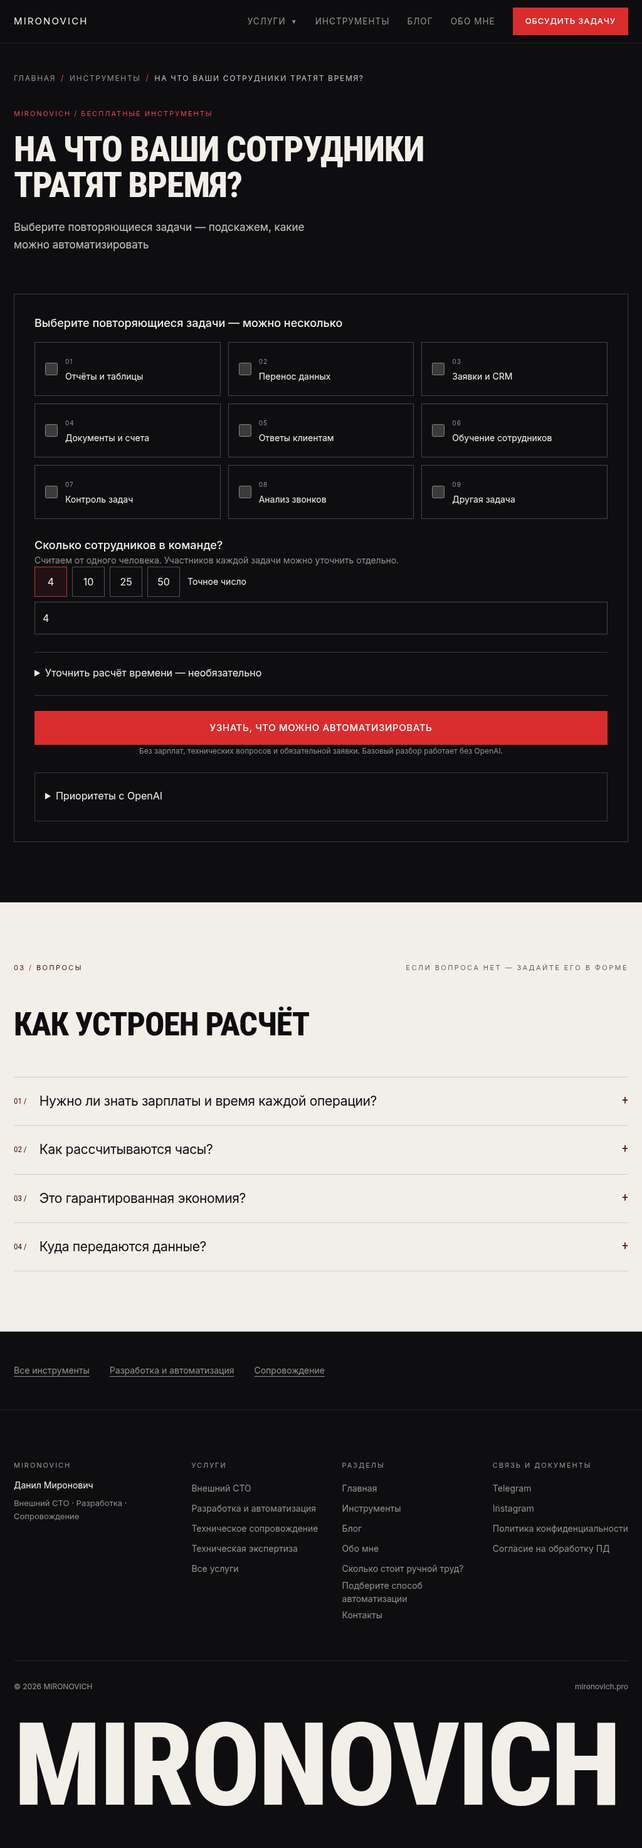
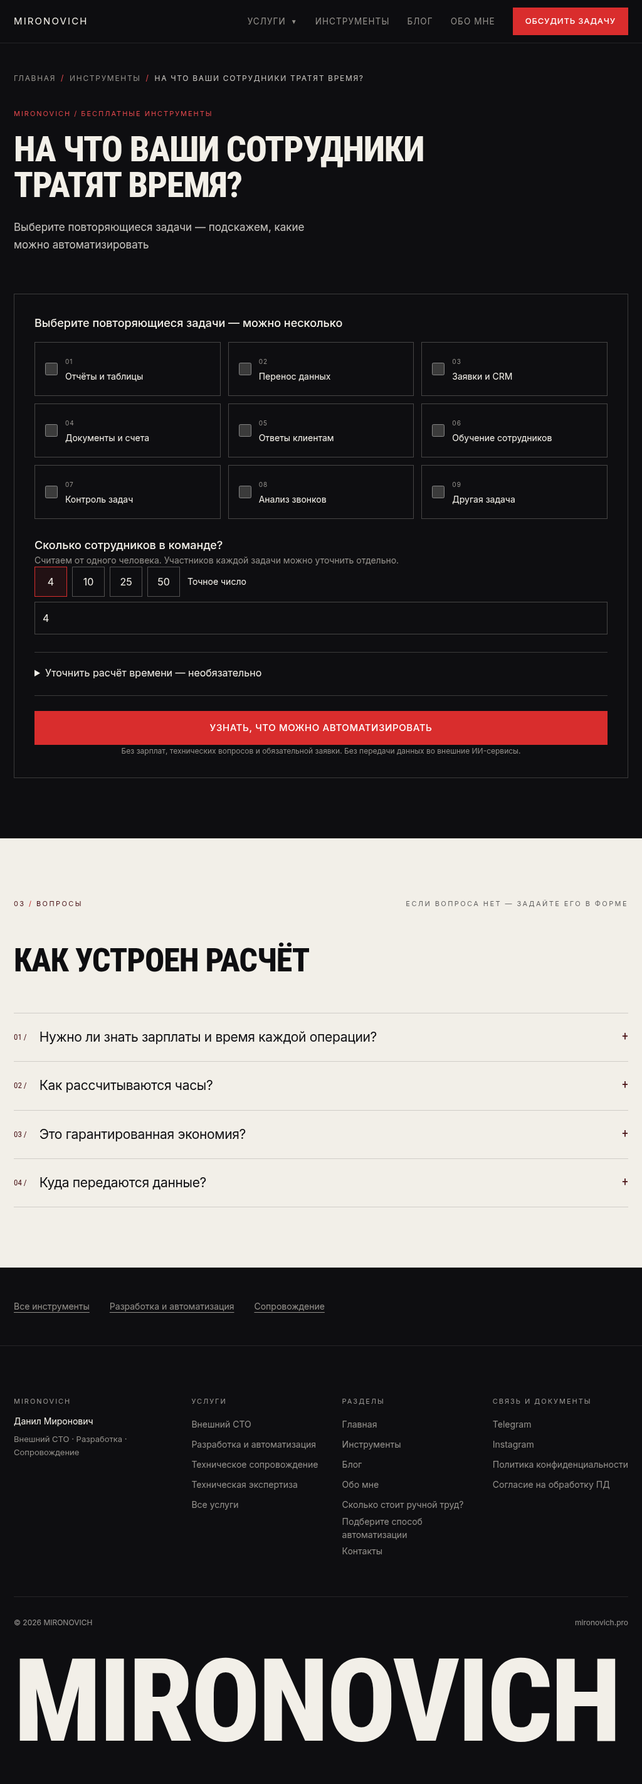
Hide unavailable OpenAI controls using request-time server policy

diff --git a/components/tools/GuidedCalculator.tsx b/components/tools/GuidedCalculator.tsx
@@ -13,7 +13,7 @@ type MeasureDraft={employees:string;frequency:Measurement["frequency"];repetitio
 const emptyMeasure=(employees:string):MeasureDraft=>({employees,frequency:"month",repetitions:"",minutes:"",periodsPerMonth:"1",hourlyCost:"",independent:false});
 const fromInput=(i:GuidedInput)=>Object.fromEntries(Object.entries(i.measurements).map(([k,m])=>[k,{...m,employees:String(m.employees),repetitions:String(m.repetitions),minutes:String(m.minutes),periodsPerMonth:String(m.periodsPerMonth),hourlyCost:m.hourlyCost===null?"":String(m.hourlyCost)}])) as Partial<Record<Task,MeasureDraft>>;
 
-export default function GuidedCalculator({mode}:{mode:"labor-cost"|"automation-cost"}) {
+export default function GuidedCalculator({mode,openAiAvailable=false}:{mode:"labor-cost"|"automation-cost";openAiAvailable?:boolean}) {
  const [tasks,setTasks]=useState<Task[]>([]),[employees,setEmployees]=useState(String(DEFAULT_EMPLOYEES));
  const [selectedSystems,setSystems]=useState<GuidedInput["systems"]>([]),[impact,setImpact]=useState<GuidedInput["impact"]>("unknown");
  const [description,setDescription]=useState("");
@@ -38,6 +38,7 @@ export default function GuidedCalculator({mode}:{mode:"labor-cost"|"automation-c
  }
  function show(input:GuidedInput){setError("");setResult(input);setCards(recommendationCards(input));setAiStatus("");requestAnimationFrame(()=>{heading.current?.focus();heading.current?.scrollIntoView({block:"start"});});}
  async function askAI(){
+  if(!openAiAvailable)return;
   if(!notice){setError("Прочитайте уведомление и подтвердите передачу выбранных обезличенных параметров.");return;}
   const input=result??build();if(!input)return;if(!result)show(input);
   setBusy(true);setAiStatus("OpenAI уточняет порядок задач и подходы. Базовая рекомендация остаётся доступной.");
@@ -50,19 +51,19 @@ export default function GuidedCalculator({mode}:{mode:"labor-cost"|"automation-c
   }catch{setAiStatus("ИИ-разбор недоступен или истекло время ожидания. Базовый результат сохранён.");}
   finally{clearTimeout(timer);setBusy(false);}
  }
- const aiBlock=<details className="mt-6 border border-cream/20 p-4"><summary className="min-h-[44px] cursor-pointer py-2 text-cream">Приоритеты с OpenAI</summary>
+ const aiBlock=openAiAvailable?<details className="mt-6 border border-cream/20 p-4"><summary className="min-h-[44px] cursor-pointer py-2 text-cream">Приоритеты с OpenAI</summary>
   <p className="text-sm leading-relaxed">OpenAI расставляет приоритеты выбранных задач и выбирает подход из каталога. Модель пока не анализирует произвольное описание бизнеса — это не индивидуальная ИИ-диагностика.</p>
   <p id="ai-notice" className="text-sm leading-relaxed text-stone">По вашему действию сайт отправит в OpenAI только категории задач, число сотрудников, выбранные типы программ и последствия ошибки. Описание, контакты, документы, пароли и расчёт стоимости не передаются. Не вводите чувствительные сведения. Можно пользоваться базовым результатом без OpenAI. <Link href="/privacy" className="underline">Политика обработки данных</Link>.</p>
   <label className="my-4 flex min-h-[48px] items-start gap-3 text-sm"><input type="checkbox" className="mt-1 h-5 w-5 shrink-0 accent-[#D92D2D]" checked={notice} onChange={e=>setNotice(e.target.checked)} aria-describedby="ai-notice"/><span>Я прочитал уведомление и хочу отправить выбранные обезличенные параметры в OpenAI</span></label>
   <button type="button" disabled={!notice||busy} className="min-h-[48px] border border-cream/40 px-5 py-3 disabled:opacity-50" onClick={askAI}>{busy?"Уточняем приоритеты…":"Уточнить приоритеты с OpenAI"}</button>
   <p role="status" className="text-sm text-stone">{aiStatus||"Базовая рекомендация доступна без OpenAI. Если модель недоступна, она сохранится."}</p>
- </details>;
+ </details>:null;
  const summary=result?calculateGuided(result):null;
  if(result&&summary)return <section aria-label="Результат разбора процессов" className="mx-auto max-w-[980px] text-cream">
   <div className="border border-cream/20 p-5 min-[560px]:p-8"><p className="text-xs uppercase tracking-widest text-stone">По выбранным задачам · без заявки</p>
    <h2 ref={heading} tabIndex={-1} className="tool-result-heading scroll-mt-24 break-normal font-display text-[clamp(28px,4vw,40px)] font-extrabold uppercase leading-tight">С чего начать</h2>
    <p className="text-sm leading-relaxed text-stone">Выберите один процесс для небольшого пилота. Команда: {result.employees}.</p>
-   {description&&<details className="mt-4 text-sm"><summary className="min-h-[44px] cursor-pointer py-2">Ваше описание — без ИИ-анализа</summary><p className="break-words text-stone">{description}</p><p className="text-stone">Описание остаётся на странице для уточнения задачи. OpenAI его не получает и не анализирует.</p></details>}
+   {description&&<details className="mt-4 text-sm"><summary className="min-h-[44px] cursor-pointer py-2">{openAiAvailable?"Ваше описание — без ИИ-анализа":"Ваше описание"}</summary><p className="break-words text-stone">{description}</p><p className="text-stone">Описание остаётся на странице для уточнения задачи.{openAiAvailable&&" OpenAI его не получает и не анализирует."}</p></details>}
    <GuidedResultCards cards={cards} />
    <details className="mt-5 border-b border-cream/20"><summary className="min-h-[56px] cursor-pointer py-4 text-base font-medium">Как выбрать подход и провести пилот</summary>
     <ul className="list-disc space-y-3 pl-5 text-sm leading-relaxed text-stone">{[...new Map(cards.map(card=>[card.type,card.reason])).entries()].map(([type,reason])=><li key={type}><span className="text-cream">{type}.</span> {reason}</li>)}</ul>
@@ -86,7 +87,7 @@ export default function GuidedCalculator({mode}:{mode:"labor-cost"|"automation-c
    <fieldset><legend className="mb-4 text-lg font-medium">Выберите повторяющиеся задачи — можно несколько</legend>
     <div className="grid gap-3 sm:grid-cols-2 lg:grid-cols-3">{Object.entries(taskLabels).map(([key,label],index)=><label key={key} className={"flex min-h-[86px] cursor-pointer items-center gap-3 border p-4 text-sm has-[:focus-visible]:outline has-[:focus-visible]:outline-2 has-[:focus-visible]:outline-signal "+(tasks.includes(key as Task)?"border-signal bg-signal/10":"border-cream/25")}><input type="checkbox" name="tasks" value={key} className="h-5 w-5 shrink-0 accent-[#D92D2D]" checked={tasks.includes(key as Task)} onChange={()=>toggle(key as Task)}/><span><span className="mb-1 block text-[10px] tracking-widest text-stone">{String(index+1).padStart(2,"0")}</span>{label}</span></label>)}</div>
    </fieldset>
-   {(tasks.includes("other")||mode==="automation-cost")&&<div className="mt-5"><label htmlFor="guided-description" className="mb-2 block text-sm">Опишите задачу своими словами — необязательно</label><textarea id="guided-description" value={description} maxLength={400} className={controlClass+" min-h-[100px] py-3"} onChange={e=>{setDescription(e.target.value);if(e.target.value.trim()&&!tasks.length)setTasks(["other"]);}} aria-describedby="description-note"/><p id="description-note" className="text-xs text-stone">Без контактов, паролей и данных клиентов. Описание остаётся в памяти страницы до вашего согласия на отправку заявки. OpenAI его пока не анализирует: текущие рекомендации основаны на выбранных категориях.</p></div>}
+   {(tasks.includes("other")||mode==="automation-cost")&&<div className="mt-5"><label htmlFor="guided-description" className="mb-2 block text-sm">Опишите задачу своими словами — необязательно</label><textarea id="guided-description" value={description} maxLength={400} className={controlClass+" min-h-[100px] py-3"} onChange={e=>{setDescription(e.target.value);if(e.target.value.trim()&&!tasks.length)setTasks(["other"]);}} aria-describedby="description-note"/><p id="description-note" className="text-xs text-stone">Без контактов, паролей и данных клиентов. Описание остаётся в памяти страницы до вашего согласия на отправку заявки. {openAiAvailable?"OpenAI его пока не анализирует: текущие рекомендации основаны на выбранных категориях.":"Рекомендации основаны на выбранных категориях."}</p></div>}
    <fieldset className="mt-7"><legend className="text-lg font-medium">Сколько сотрудников в команде?</legend><p className="text-sm text-stone">Считаем от одного человека. Участников каждой задачи можно уточнить отдельно.</p><div className="flex flex-wrap items-center gap-2">{EMPLOYEE_PRESETS.map(n=><button type="button" key={n} aria-pressed={employees===String(n)} onClick={()=>setEmployees(String(n))} className={"min-h-[48px] min-w-[52px] border px-3 "+(employees===String(n)?"border-signal bg-signal/10":"border-cream/30")}>{n}</button>)}<label className="ml-1 text-sm" htmlFor="guided-employees">Точное число</label><input id="guided-employees" inputMode="numeric" value={employees} maxLength={5} onChange={e=>setEmployees(e.target.value)} className={controlClass+" w-[95px]"}/></div></fieldset>
    {mode==="automation-cost"&&<details className="mt-6 border-t border-cream/20 pt-4"><summary className="min-h-[44px] cursor-pointer py-2">Два уточнения — если знаете ответы</summary><fieldset><legend className="mb-3">Какие программы используете?</legend><div className="grid gap-2 sm:grid-cols-2">{Object.entries(systems).map(([key,label])=><label key={key} className="flex min-h-[48px] items-center gap-3 text-sm"><input type="checkbox" className="h-5 w-5 accent-[#D92D2D]" checked={selectedSystems.includes(key as GuidedInput["systems"][number])} onChange={()=>setSystems(old=>{const k=key as GuidedInput["systems"][number];return old.includes(k)?old.filter(x=>x!==k):["none","unknown"].includes(k)?[k]:[...old.filter(x=>!["none","unknown"].includes(x)),k];})}/>{label}</label>)}</div></fieldset><label htmlFor="guided-impact" className="mb-2 mt-5 block text-sm">Что будет, если автоматизация ошибётся?</label><select id="guided-impact" className={controlClass} value={impact} onChange={e=>setImpact(e.target.value as GuidedInput["impact"])}>{Object.entries(impacts).map(([key,label])=><option key={key} value={key}>{label}</option>)}</select></details>}
    <details className="mt-7 border-y border-cream/20 py-3"><summary className="min-h-[44px] cursor-pointer py-2 text-base">Уточнить расчёт времени — необязательно</summary><p className="text-sm leading-relaxed text-stone">Без замеров покажем рекомендации без часов и рублей. Число повторений — на одного участника процесса. Учитывайте каждую операцию только в одном процессе.</p>
@@ -95,7 +96,7 @@ export default function GuidedCalculator({mode}:{mode:"labor-cost"|"automation-c
      return <fieldset className="my-5 min-w-0 border border-cream/20 p-4" key={task}><legend className="px-2 font-medium">{taskLabels[task]}</legend><div className="grid gap-4 sm:grid-cols-2 lg:grid-cols-3">{field("employees","Сотрудников выполняют задачу")}<div><label htmlFor={`${task}-frequency`} className="mb-2 block text-xs">Период повторения</label><select id={`${task}-frequency`} className={controlClass} value={m.frequency} onChange={e=>setMeasures(old=>({...old,[task]:{...m,frequency:e.target.value as Measurement["frequency"],periodsPerMonth:e.target.value==="month"?"1":""}}))}><option value="day">В день</option><option value="week">В неделю</option><option value="month">В месяц</option></select></div>{field("repetitions","Повторений на человека за период")}{field("minutes","Минут на одно выполнение")}{m.frequency!=="month"&&field("periodsPerMonth",m.frequency==="day"?"Рабочих дней в этом месяце":"Рабочих недель в этом месяце")}{field("hourlyCost","Стоимость часа, ₽ — необязательно")}</div><label className="mt-4 flex min-h-[48px] items-start gap-3 text-sm"><input type="checkbox" className="mt-1 h-5 w-5 shrink-0 accent-[#D92D2D]" checked={m.independent} onChange={e=>measure(task,"independent",e.target.checked)}/><span>Подтверждаю: эти операции не учтены в других выбранных процессах</span></label></fieldset>;})}
    </details>
    {error&&<p role="alert" className="mt-4 border-l-2 border-signal pl-3 text-sm">{error}</p>}
-   <button type="submit" className={buttonClass+" mt-6 w-full"}>Узнать, что можно автоматизировать</button><p className="mb-0 text-center text-xs leading-relaxed text-stone">Без зарплат, технических вопросов и обязательной заявки. Базовый разбор работает без OpenAI.</p>
+   <button type="submit" className={buttonClass+" mt-6 w-full"}>Узнать, что можно автоматизировать</button><p className="mb-0 text-center text-xs leading-relaxed text-stone">Без зарплат, технических вопросов и обязательной заявки. {openAiAvailable?"Базовый разбор работает без OpenAI.":"Без передачи данных во внешние ИИ-сервисы."}</p>
   </form>{aiBlock}
  </div>;
 }

diff --git a/lib/tools/recommendation-api.ts b/lib/tools/recommendation-api.ts
@@ -1,3 +1,4 @@
+import { recommendationAvailable } from "./recommendation-availability.ts";
 import { parseGuided, type Task, type GuidedInput } from "./guided.ts";
 import { catalog, recommendationCards, type Approach } from "./catalog.ts";
 import { record } from "./input.ts";
@@ -48,7 +49,7 @@ export function createRecommendationHandler({env=process.env,fetcher=fetch,now=(
   const input=parseRecommendationRequest(body.body);
   if(!input)return reply(422,"Подтвердите уведомление и отправьте только выбранные обезличенные параметры.");
   if(env.AI_RECOMMENDATIONS_ENABLED!=="true"||!legalApproved)return reply(503,"ИИ-разбор пока выключен. Используйте базовую рекомендацию без внешней обработки.");
-  if(!env.OPENAI_API_KEY||!["gpt-5.4-mini", "gpt-5.4-mini-2026-03-17"].includes(env.OPENAI_MODEL??""))return reply(503,"ИИ-разбор не настроен. Базовая рекомендация доступна.");
+  if(!recommendationAvailable(env,legalApproved))return reply(503,"ИИ-разбор не настроен. Базовая рекомендация доступна.");
   const today=Math.floor(now()/86400000);if(day!==today){day=today;attempts=0;}
   if(attempts>=aiRecommendationsPolicy.maxDailyRequestsPerInstance||inFlight>=2)return reply(429,"Достигнут лимит ИИ-разборов. Вернитесь позже или используйте базовый разбор.");
   // Reserve before awaiting. No retries/refunds: failures and timeouts also consume the local budget.

diff --git a/app/tools/labor-cost/page.tsx b/app/tools/labor-cost/page.tsx
@@ -3,6 +3,9 @@ import LaborCalculator from "@/components/tools/LaborCalculator";
 import ToolPage from "@/components/tools/ToolPage";
 import { pageMetadata } from "@/lib/seo";
 
+// Availability is evaluated per request, not frozen into a build-time/static page.
+export const dynamic = "force-dynamic";
+
 const title = "На что ваши сотрудники тратят время?";
 const description = "Выберите повторяющиеся задачи — подскажем, какие можно автоматизировать";
 export const metadata: Metadata = pageMetadata({ title: "Калькулятор стоимости ручного труда — MIRONOVICH", description, path: "/tools/labor-cost" });

diff --git a/app/tools/automation-cost/page.tsx b/app/tools/automation-cost/page.tsx
@@ -3,6 +3,9 @@ import AutomationCalculator from "@/components/tools/AutomationCalculator";
 import ToolPage from "@/components/tools/ToolPage";
 import { pageMetadata } from "@/lib/seo";
 
+// Availability is evaluated per request, not frozen into a build-time/static page.
+export const dynamic = "force-dynamic";
+
 const title = "Подберите способ автоматизации";
 const description = "Ответьте на несколько вопросов и узнайте, какое решение может подойти вашему бизнесу";
 export const metadata: Metadata = pageMetadata({ title: title + " — MIRONOVICH", description, path: "/tools/automation-cost" });

diff --git a/lib/tools/recommendation-availability.ts b/lib/tools/recommendation-availability.ts
@@ -1,0 +1,10 @@
+/** Pure server policy shared by rendering and the API. Never serialize env/config to the client. */
+export function recommendationAvailable(
+  env: Readonly<Record<string, string | undefined>>,
+  legalApproved: boolean,
+): boolean {
+  return legalApproved === true
+    && env.AI_RECOMMENDATIONS_ENABLED === "true"
+    && Boolean(env.OPENAI_API_KEY?.trim())
+    && ["gpt-5.4-mini", "gpt-5.4-mini-2026-03-17"].includes(env.OPENAI_MODEL ?? "");
+}

diff --git a/lib/tools/server-availability.ts b/lib/tools/server-availability.ts
@@ -1,0 +1,8 @@
+import "server-only";
+import { aiRecommendationsPolicy } from "../../config/ai-recommendations";
+import { recommendationAvailable } from "./recommendation-availability";
+
+/** Request-time evaluation; only the boolean crosses the Server/Client Component boundary. */
+export function openAiAvailable(): boolean {
+  return recommendationAvailable(process.env, aiRecommendationsPolicy.externalProcessingApproved);
+}

diff --git a/components/tools/AutomationCalculator.tsx b/components/tools/AutomationCalculator.tsx
@@ -1,2 +1,3 @@
+import { openAiAvailable } from "@/lib/tools/server-availability";
 import GuidedCalculator from "./GuidedCalculator";
-export default function AutomationCalculator() { return <GuidedCalculator mode="automation-cost" />; }
+export default function AutomationCalculator() { return <GuidedCalculator mode="automation-cost" openAiAvailable={openAiAvailable()} />; }

diff --git a/components/tools/LaborCalculator.tsx b/components/tools/LaborCalculator.tsx
@@ -1,2 +1,3 @@
+import { openAiAvailable } from "@/lib/tools/server-availability";
 import GuidedCalculator from "./GuidedCalculator";
-export default function LaborCalculator() { return <GuidedCalculator mode="labor-cost" />; }
+export default function LaborCalculator() { return <GuidedCalculator mode="labor-cost" openAiAvailable={openAiAvailable()} />; }

diff --git a/docs/tools/testing-v2.md b/docs/tools/testing-v2.md
@@ -14,13 +14,13 @@
 
 | Команда | Результат |
 |---|---|
-| npm test | 166/166 PASS (148 прежних + 18 новых) |
+| npm test | 169/169 PASS (148 прежних + 21 новый) |
 | npm run lint | PASS, 0 предупреждений |
 | npm run typecheck | PASS |
 | npm run build | PASS |
 | git diff --check | PASS |
 
-Последняя сборка запускалась локально с NEXT_PUBLIC_SITE_URL=http://localhost:3001 и SITE_NOINDEX=1 (первичная проверка v2 использовала порт 3000). Это честная non-production-конфигурация, а не обход release guard. Существующий guard сообщил о прежних незаполненных юридических проектах и ненастроенном доверенном IP. Действующая legacy-публикационная оговорка не изменена и не трактуется как согласование OpenAI. Production-сборка/релиз с включённым внешним ИИ не заявляются готовыми.
+Последняя сборка запускалась локально с NEXT_PUBLIC_SITE_URL=http://localhost:3002 и SITE_NOINDEX=1 (предыдущие локальные проверки использовали порты 3000/3001). Это честная non-production-конфигурация, а не обход release guard. Существующий guard сообщил о прежних незаполненных юридических проектах и ненастроенном доверенном IP. Действующая legacy-публикационная оговорка не изменена и не трактуется как согласование OpenAI. Production-сборка/релиз с включённым внешним ИИ не заявляются готовыми.
 
 После build проверен локальный `next start`: три основных сценария повторно прошли на оптимизированной сборке. Нового production deploy, изменения Railway или merge не выполнялось.
 
@@ -47,15 +47,15 @@
 
 Playwright **1.65.0**, axe-core/playwright **4.14.0**, Chromium **156.0.8078.79**. Не добавлялись в runtime-зависимости сайта; инструменты установлены отдельно для проверки.
 
-Матрица development-preview: labor-cost, automation-cost и результат нескольких процессов на ширинах **320 / 375 / 768 / 1024 / 1440 px** — всего 15 проверок, горизонтального переполнения нет. На локальном next start повторены три сквозных сценария и пять ширин результата. Машинные отчёты: [browser-report.json](browser-report.json), [production-browser-report.json](production-browser-report.json).
+Последний браузерный проход выполнен на локальном next start после сборки. Матрица: labor-cost, automation-cost и результат нескольких процессов на ширинах **320 / 375 / 768 / 1024 / 1440 px** — всего 15 проверок, горизонтального переполнения нет. Все три сквозных сценария повторены на этой сборке. Оба файла отчёта отражают один финальный проход: [browser-report.json](browser-report.json), [production-browser-report.json](production-browser-report.json).
 
 Три сценария:
 
 - **Нет технических знаний:** выбор «Заявки и CRM» клавишей Space, запуск Enter; полезные карточки без систем, API, зарплат и длительности.
 - **Несколько ручных процессов:** пресеты и ручной ввод; 0 сотрудников отклонён; отчёты 4 ч и перенос 2 ч по собственным данным теста; без подтверждения независимости общий итог отсутствует, после подтверждения — 6 ч и 3 000 ₽ **стоимости рабочего времени**, не экономии. Переход во второй инструмент сохраняет результат. Заявка без согласия не отправляется, после согласия передаётся v2 context (доставка в браузере подменена).
-- **ИИ без денежного расчёта:** отдельное уведомление и действие; без checkbox кнопка disabled; описание и measurements отсутствуют в payload; реальный сервер возвращает controlled 503, базовая карточка не исчезает.
+- **Версия без OpenAI:** отдельное описание задачи и базовый результат доступны; в DOM нет блока OpenAI, кнопки и checkbox, ИИ-запросы не отправляются. Запрет description/measurements в API по-прежнему покрыт серверными тестами.
 
-Axe: **0 нарушений на двух проверенных экранах результата** в обоих запусках. Это автоматический срез, не утверждение полной доступности всех страниц сайта. Выбор задачи и основной результат дополнительно проверены клавиатурой; используются стандартные checkbox, details, select и именованные поля. На пяти ширинах сделаны реальные PNG, выбранные мобильные экраны визуально просмотрены. Скрыт только стандартный Next.js dev-индикатор при снимке; содержание интерфейса не подменялось.
+Axe: **0 нарушений на двух проверенных экранах результата** в последнем проходе. Это автоматический срез, не утверждение полной доступности всех страниц сайта. Выбор задачи и основной результат дополнительно проверены клавиатурой; используются стандартные checkbox, details, select и именованные поля. На пяти ширинах сделаны реальные PNG, выбранные мобильные экраны визуально просмотрены. Скрыт только стандартный Next.js dev-индикатор при снимке; содержание интерфейса не подменялось.
 
 Скриншоты:
 
@@ -67,7 +67,7 @@ Axe: **0 нарушений на двух проверенных экранах 
 - [Начало automation-cost, 375 px](screenshots/automation-375.png)
 - [Два процесса и расчёт, 375 px](screenshots/result-multiple-375.png)
 - [Два процесса и расчёт, 1440 px](screenshots/result-multiple-1440.png)
-- [ИИ недоступен, базовый ответ сохранён](screenshots/result-ai-fallback-375.png)
+- [Результат без блока OpenAI](screenshots/result-ai-fallback-375.png)
 
 ## Заявки и безопасность
 
@@ -101,6 +101,12 @@ NODE_PATH=/tmp/mironovich-browser/node_modules node scripts/test-tools-browser.m
 
 Причина красной рамки в прежнем result-beginner-375.png: глобальный :focus-visible применялся к программно фокусируемому h2 после клавиатурного запуска. Добавлено только scoped-правило .tool-result-heading:focus; общий фокус кнопок, полей, ссылок и summary не отключён. Браузерный тест проверяет фактический фокус на h2, computed outlineStyle=none, затем Tab и видимый outline раскрываемой секции. На пяти ширинах заголовок занимает не более двух строк и не создаёт горизонтального переполнения. На viewport 375×812 конец первого практического шага находится внутри окна. Проверена клавиатурная работа закрытых других задач и вложенных подробностей. Обновлены реальные скриншоты; два новых снимка показывают viewport и раскрытые детали.
 
-В UI текущая функция называется «Приоритеты с OpenAI», действие — «Уточнить приоритеты с OpenAI». До согласия явно сказано: модель расставляет приоритеты и выбирает подход из каталога, но не анализирует произвольное описание бизнеса и не проводит индивидуальную ИИ-диагностику. Те же границы отражены у поля описания и в результате. Текущий whitelist и tests, запрещающие отправку description, сохранены. Предложение следующего этапа — отдельный документ individual-ai-next-stage.md; это не реализация и не разрешение на внешнюю обработку.
+При разрешённой сервером интеграции функция в UI называется «Приоритеты с OpenAI», действие — «Уточнить приоритеты с OpenAI». До согласия явно сказано: модель расставляет приоритеты и выбирает подход из каталога, но не анализирует произвольное описание бизнеса и не проводит индивидуальную ИИ-диагностику. Те же границы отражены у поля описания и в результате. Текущий whitelist и tests, запрещающие отправку description, сохранены. Предложение следующего этапа — отдельный документ individual-ai-next-stage.md; это не реализация и не разрешение на внешнюю обработку.
 
-Конфигурация OpenAI, .env.example, серверный endpoint и правовой gate не менялись этой UX-доработкой. Railway не настраивался, OpenAI не включался, живые API-вызовы не выполнялись. Merge и deployment не выполнялись.
+На этапе упрощения страницы результата конфигурация OpenAI, .env.example, серверный endpoint и правовой gate не менялись; заключительный этап добавил общую серверную policy доступности без изменения gate. Railway не настраивался, OpenAI не включался, живые API-вызовы не выполнялись. Merge и deployment не выполнялись.
+
+## Заключительная проверка версии без OpenAI
+
+[Серверная политика доступности](availability-release.md) и UI скрывают недоступную функцию целиком, без публичных секретных настроек. На формах и результатах обеих страниц проверяется отсутствие OpenAI-контролов в DOM и ноль ИИ-запросов. Кодовый юридический gate остался false. Базовые формулы и перенос не менялись. Предыдущие проверки уведомления/consent для будущей интеграции остаются в серверных unit tests; в текущем выключенном UI такие элементы не предлагаются посетителю.
+
+Финальный проход: 15 проверок ширины (два входных экрана и результат на 320/375/768/1024/1440 px), три пользовательских сценария, 0 page errors, 0 обращений браузера к API рекомендаций, 0 нарушений Axe на двух экранах результата. HTTP-проверка подтвердила Cache-Control: private, no-cache, no-store на обеих страницах; серверные имена переменных и тестовый ключ отсутствуют в HTML и .next/static. Прямой запрос к выключенному endpoint даёт 503. Сборка помечает оба маршрута как dynamic. Эти проверки не являются разрешением на merge/deploy.

diff --git a/docs/tools/availability-release.md b/docs/tools/availability-release.md
@@ -1,0 +1,22 @@
+# Версия без OpenAI: серверное управление доступностью
+
+В текущей версии внешний ИИ остаётся выключенным. При недоступной интеграции посетитель не видит в GuidedCalculator ни блок «Приоритеты с OpenAI», ни кнопку, ни checkbox, ни сообщение о недоступной функции. Базовые рекомендации, расчёты, перенос между инструментами и форма заявки остаются доступны.
+
+## Решение
+
+- Доступность проверяется в Server Components по request-time process.env и неизменённому юридическому gate. Нужно одновременно: AI_RECOMMENDATIONS_ENABLED строго true, externalProcessingApproved строго true, непустой серверный ключ и разрешённая модель.
+- Оба маршрута инструментов используют force-dynamic: решение не замораживается при сборке и не публикуется как статическая закешированная страница.
+- Клиент получает единственное булево свойство openAiAvailable; по умолчанию оно false. Не передаются ключ, название модели, значения переменных, причины отказа или содержимое конфигурации.
+- Серверный адаптер защищён import "server-only". Общая чистая policy-функция recommendationAvailable используется и рендером, и API; её можно тестировать без изменения настоящих настроек.
+- При false блок не рендерится, а не скрывается CSS. Обработчик клиентского запроса дополнительно сразу выходит. Прямой поддельный запрос к API по-прежнему защищён серверными gate/валидацией/лимитами; видимость UI не считается средством авторизации.
+- Юридический gate, .env.example и настройки Railway не изменялись. Внешние вызовы не выполнялись.
+
+## Проверки
+
+169 unit/contract tests (166 прежних + 3 availability tests), lint, typecheck и локальная build-сборка на Node 22. Проверки policy включают выключенный feature flag, юридический gate, отсутствие/пустоту ключа, неподдерживаемую модель и разрешённые синтетические fixtures. Fixtures не включают реальную интеграцию.
+
+Браузерный тест проверяет отсутствие контролов OpenAI в DOM обеих форм и результатов; это также проверяется на 320/375/768/1024/1440 px. Счётчик обращений к /api/tools/recommendation должен оставаться равным нулю. Сохранены сценарии расчёта нескольких процессов, подтверждения независимости, переноса, клавиатуры и заявки с mocked-доставкой. Третий сценарий проверяет описание и полезный результат без OpenAI вместо попытки вызвать заведомо выключенную функцию.
+
+Актуальные скриншоты и машинный отчёт обновляются тем же скриптом scripts/test-tools-browser.mjs. Историческое имя result-ai-fallback-375.png сохранено для существующих ссылок: теперь на этом снимке показан результат вообще без блока OpenAI.
+
+Готовность относится к версии без внешнего ИИ. Merge и production deploy требуют отдельного разрешения. Предложение индивидуального ИИ-разбора остаётся проектом следующего этапа, не частью текущего выпуска.

diff --git a/docs/tools/README.md b/docs/tools/README.md
@@ -6,6 +6,7 @@
 - [Схема API, переменные Railway, стоимость и ограничения](ai-recommendations.md)
 - [Дополнение для юридической проверки, не опубликовано](openai-privacy-review.md)
 - [Отчёт проверки и скриншоты](testing-v2.md)
+- [Версия без OpenAI и серверная доступность](availability-release.md)
 - [Предложение индивидуального ИИ-разбора следующего этапа — не включено](individual-ai-next-stage.md)
 
 Формулы и валидация v2 — `lib/tools/guided.ts`; проверяемые рекомендации — `catalog.ts`; серверный Responses API — `recommendation-api.ts` и `/api/tools/recommendation`; code gate — `config/ai-recommendations.ts`. Сценарии UI объединены в GuidedCalculator, маршруты используют прежние LaborCalculator/AutomationCalculator. Старые числовые модели и Wizard сохранены для совместимости, но в новом публичном сценарии не вызываются.
@@ -13,3 +14,5 @@
 Сначала базовая польза, затем необязательные замеры и отдельно ИИ-действие. Стоимость рабочего времени не названа экономией; процент автоматизации, бюджет внедрения и сроки не генерируются.
 
 На странице результата сразу видны проблема, решение и первый практический шаг одного процесса. Другие задачи, проверки, условия пилота и замеры раскрываются отдельно. Текущая модель только уточняет приоритеты и выбирает подходы из каталога; произвольное описание бизнеса не анализируется.
+
+Если сервер не разрешает интеграцию, блок OpenAI полностью отсутствует в интерфейсе. Посетителю доступны базовые рекомендации и замеры; браузер не запрашивает недоступную функцию.

diff --git a/docs/tools/ai-recommendations.md b/docs/tools/ai-recommendations.md
@@ -72,3 +72,7 @@ Schema генерируется по выбранным task IDs; additionalProp
 ## Следующий этап — только предложение
 
 UI прямо сообщает, что текущая модель не анализирует произвольное описание бизнеса. План отдельного согласованного сценария с обезличенным текстом, предпросмотром payload и самостоятельным согласием описан в [individual-ai-next-stage.md](individual-ai-next-stage.md). Текущая схема запроса, gate и переменные не изменены; запрет свободного текста в `/recommendation` сохраняется.
+
+## Доступность UI
+
+Текущий выпуск показывает только базовый результат, если серверная recommendationAvailable не подтверждает все условия. Server Components вычисляют её на каждый запрос; force-dynamic исключает статическое решение при build. В GuidedCalculator передаётся только boolean, по умолчанию false. При false нет DOM-контролов OpenAI и нет клиентского запроса проверки доступности. Сам API независимо применяет ту же policy-функцию, прежние ограничения и юридический gate; подмена свойства в браузере не даёт доступа к внешнему сервису. Подробнее: [availability-release.md](availability-release.md).
